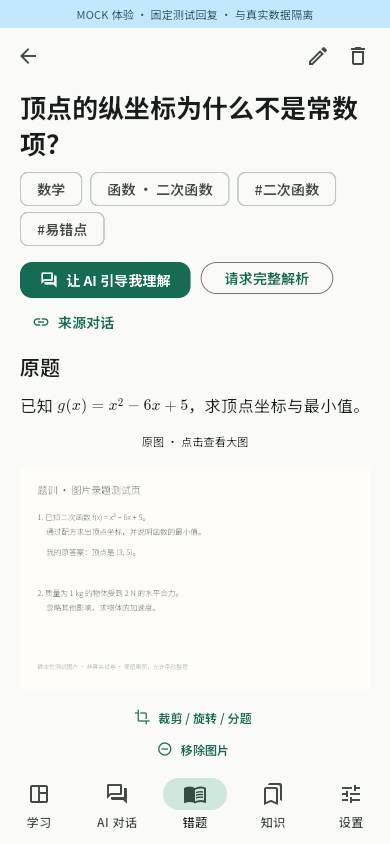
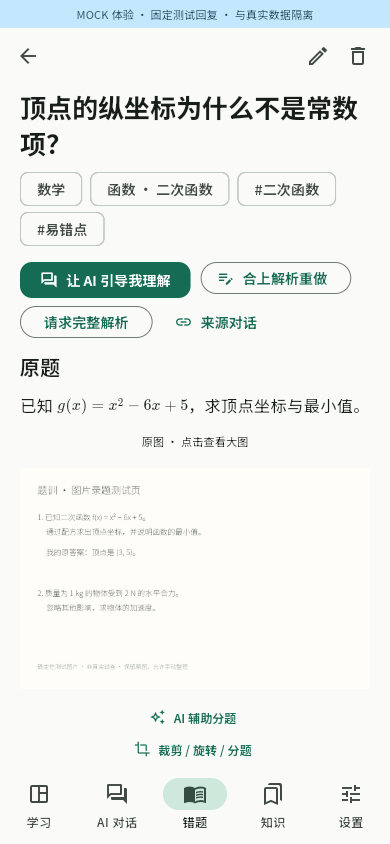
docs: record verified 0.5.1 builds and final interface checks

diff --git a/DESIGN.md b/DESIGN.md
@@ -8,7 +8,7 @@
 - **附件**：稳定相对路径，应用目录保存原始字节，拒绝目录穿越和超大输入；缩略显示限制解码宽度。Chat 发送前及资料中均支持有界裁剪、旋转、缩小副本与手动分题；AI 可建议边界，必须经用户确认。复杂题目不依赖 OCR，原图始终保留。
 - **Provider 边界**：业务依赖 ChatProvider。DeepSeek 与兼容接口共用 OpenAI Chat Completions 传输；模型能力在构造请求时验证。API Key 由平台 KeyStore 读取，与 SQLite 隔离。只有一个活动 Provider 配置，地址对应密钥分别保存。
 - **运行边界**：SSE 按 UTF-8、行和事件解帧，不假设 HTTP chunk 边界。超时、限流、异常 JSON、未完成输出、无正文和取消独立处理；未收到响应前最多重试一次，生成后不自动重发。上下文最多 30 条/32000 字符，明确展示限制；未来再按需求增加摘要。
-- **教学**：guided/direct/exam 三种提示策略，持久化 diagnosing/hinting/explaining/practicing/feedback/completed 阶段，由练习提示、提交和评分驱动恢复状态。资料工具必须由用户授权，写入逐项确认；未获成功工具结果时不能声称完成数据修改。
+- **教学**：guided/direct/exam 三种提示策略，持久化 diagnosing/hinting/explaining/practice/feedback 阶段，由练习提示、提交和评分驱动恢复状态。资料工具必须由用户授权，写入逐项确认；未获成功工具结果时不能声称完成数据修改。
 - **隔离**：编译期开启 TIXUN_DEMO 后使用内存数据库、独立临时附件目录和固定 Mock Provider。默认生产构建没有演示记录。现阶段不提供运行时混入真实数据库的 Mock 开关。
 - **验证**：纯逻辑/数据库测试、真实本地 HTTP SSE 测试、Widget/Golden、Linux integration_test 和 Xvfb GUI 截图分别覆盖不同层面。截图生成与视觉检查分别记录。
 

diff --git a/ROADMAP.md b/ROADMAP.md
@@ -44,7 +44,9 @@
 - [x] 56 项自动化测试；schema v1/v3/v4 → v5 保留资料与作答的迁移测试。
 - [x] 7 项真实 Linux GUI 集成测试：聊天/流式/图片编辑、工具保存、人工和 AI 分题、错题→变式→交互题→复习→诊断、备份恢复/撤销、小测/修订/批量操作。
 - [x] 已读取手机与桌面、深浅主题、公式、图片和训练截图；Golden 有意更新并读取检查。
-- [ ] 最终 0.5.1 双平台 CI 与 Linux 正式构建：验证中。
+- [x] 0.5.1 Linux 正式/Mock Release 构建、真实生产数据库启动、创建会话后重启保留、最终 GUI 启动与截图审查。
+- [x] 已下载并检查 CI APK：`org.tixun.tixun`、版本 `0.5.1`/6、minSdk 29、targetSdk 36、arm64-v8a/armeabi-v7a/x86_64，APK v2 签名校验通过。Manifest 无相机或广泛存储权限；硬件行为另行验收。
+- [x] 最终 0.5.1 双平台 CI：[41879876725](https://github.com/mumu-lhl/tixun/actions/runs/41879876725)。56 项测试、Android Debug APK、Linux Release 和 7 项真实 GUI 集成测试全部通过，构建与截图日志 Artifact 已上传。
 
 ## 必须单独完成的外部验收
 
@@ -57,4 +59,4 @@
 
 Flutter 3.47.9 / Dart 3.13.7；`flutter analyze`、`flutter test`。Linux GUI 参照 README 与 CI 的五个测试入口，截图/日志保存在 `artifacts/`，生成截图与完成视觉审查分别记录。约 8 GiB 的当前云盘无法解压 Android NDK，APK 由磁盘充足的 GitHub Actions 构建。
 
-上一版已通过的双平台 CI：[M5 核心 41866713647](https://github.com/mumu-lhl/tixun/actions/runs/41866713647)。[最新工作流与产物](https://github.com/mumu-lhl/tixun/actions/workflows/ci.yml)。
+已验证代码提交：`341542d`（0.5.1）。最终双平台 CI：[41879876725](https://github.com/mumu-lhl/tixun/actions/runs/41879876725)。[最新工作流与产物](https://github.com/mumu-lhl/tixun/actions/workflows/ci.yml)。

diff --git a/README.md b/README.md
@@ -87,8 +87,12 @@ GitHub Actions 检查代码、构建 Debug APK、构建 Linux、执行真实 GUI
 
 <img src="docs/screenshots/chat-phone.png" width="390" alt="手机宽度的聊天界面" />
 
+<img src="docs/screenshots/study-phone.png" width="390" alt="手机学习主页与真实本地数据计数" />
+
+<img src="docs/screenshots/practice-phone.png" width="390" alt="可暂停续做的离线随机小测" />
+
 ![知识详情与数学排版](docs/screenshots/knowledge-desktop.png)
 
 <img src="docs/screenshots/mistake-phone.png" width="390" alt="手机宽度的错题与原图" />
 
-[下载最新通过验证的 Android APK、Linux bundle 与测试截图](https://github.com/mumu-lhl/tixun/actions/workflows/ci.yml)。CI Artifact 需要登录 GitHub；APK 为 Debug 开发包，尚未进行正式签名发布。
+[下载 0.5.1 验证产物：Android APK、Linux bundle 与测试截图](https://github.com/mumu-lhl/tixun/actions/runs/41879876725)。CI Artifact 需要登录 GitHub；APK 为 Debug 开发包，尚未进行正式签名发布。
